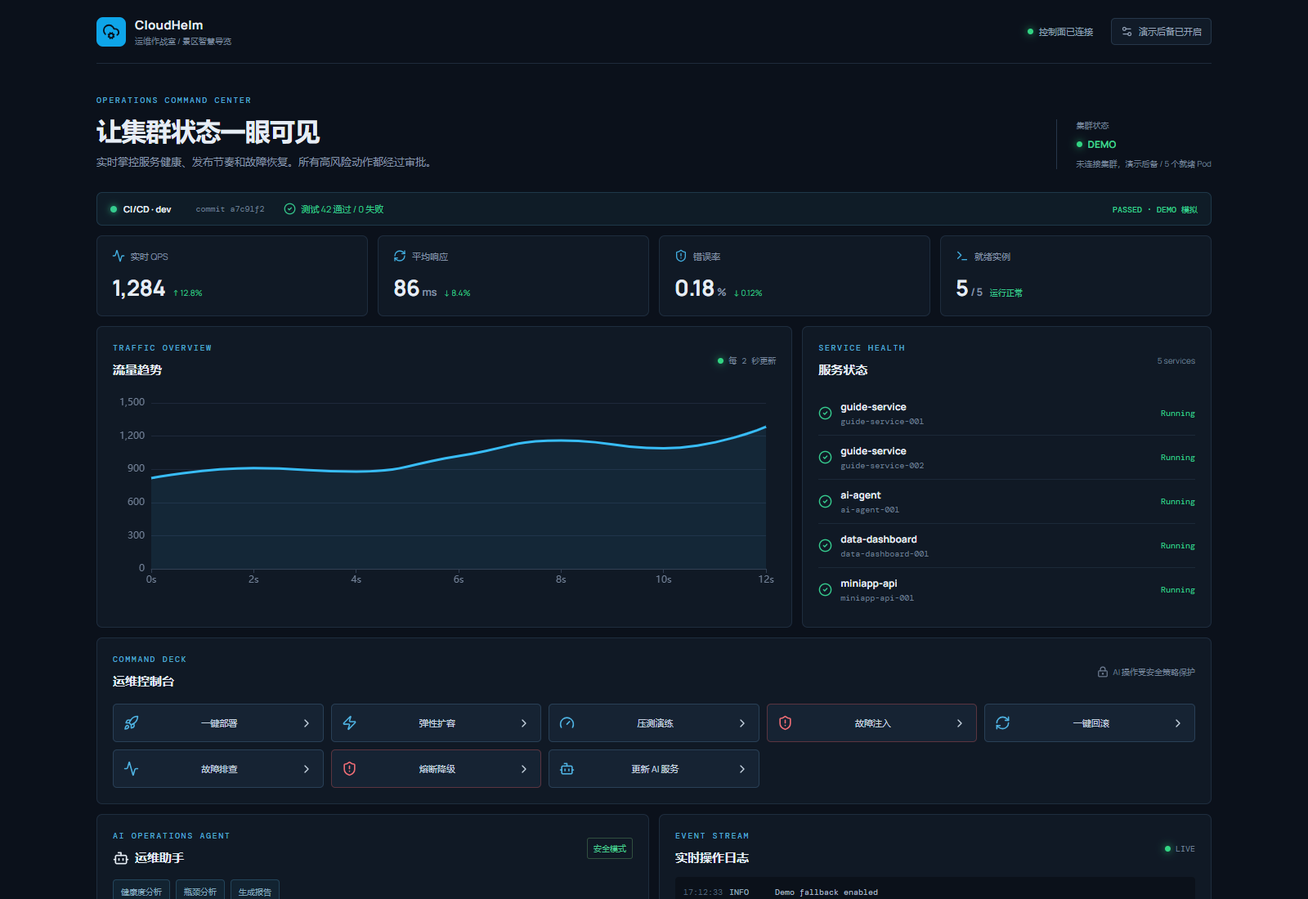
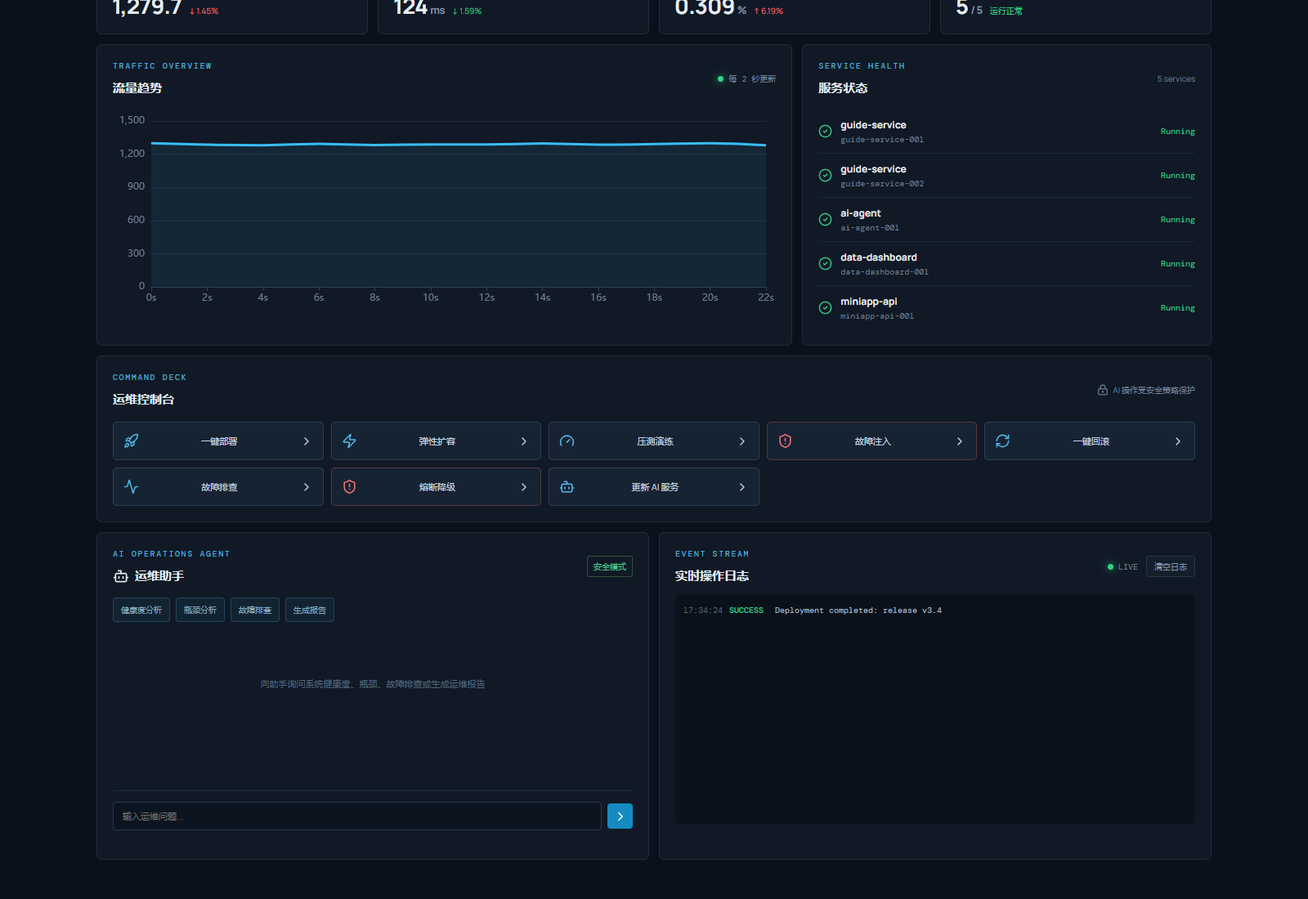
feat: 补上"清空日志"按钮，指标环比改为真实计算
缺口1: 需求 3.2.4 明确要求"提供清空日志按钮", 但前端 0 处实现。
- 新增 DELETE /api/logs 清空服务端缓冲区, 并记入审计(action_type=clear_logs)
- 日志面板标题栏增加"清空日志"按钮, 点击后本地清空并提示
- 实测: 点击后 0 条, 刷新页面仍为 0(证明服务端同步清除), 后续操作日志正常

缺口2: 指标卡片的环比箭头是写死的常量(↑12.8% / ↓8.4% / ↓0.12%)。
指标已改为动态后, 固定箭头属于把假数据当真实趋势展示。
- 改为与上一次采样对比实时计算, 无基线时显示 "—"
- 语义分级: QPS 上升为 good, 延迟/错误率下降为 good
- 实测: QPS ↓0.79%(bad) / 响应 ↓1.81%(good) / 错误率 ↑7.56%(bad)

验证: pytest 28 passed(新增清空日志用例) / npm run build 通过

diff --git a/frontend/src/App.vue b/frontend/src/App.vue
@@ -15,13 +15,43 @@ const api = async (path, options = {}) => { const response = await fetch(path, {
 let lastMode = null
 const metrics = ref({ qps: 0, latency_ms: 0, error_rate: 0, ready_pods: 0, total_pods: 0, traffic: [] })
 const health = ref({ k8s_connected: false }); const pipeline = ref(null)
+const deltas = ref({ qps: null, latency_ms: null, error_rate: null })
 const pods = ref([]); const logs = ref([]); const messages = ref([]); const question = ref(''); const busy = ref(''); const demoFallback = ref(true); const chart = ref(null); let chartInstance; let refreshTimer; let logSocket; let reconnectTimer
 const modeLabel = computed(() => {
   if (demoFallback.value) return '演示后备已开启'
   return health.value.k8s_connected ? '真实集群模式' : '后备已关闭 · 未连接集群'
 })
 const actionButtons = [{ key: 'deploy', label: '一键部署', icon: Rocket }, { key: 'scale', label: '弹性扩容', icon: Zap }, { key: 'load', label: '压测演练', icon: Gauge }, { key: 'chaos', label: '故障注入', icon: ShieldAlert, danger: true }, { key: 'rollback', label: '一键回滚', icon: RefreshCw }, { key: 'diagnostics', label: '故障排查', icon: Activity }, { key: 'circuit', label: '熔断降级', icon: ShieldAlert, danger: true }, { key: 'ai', label: '更新 AI 服务', icon: Bot }]
-async function refresh() { try { const [h, m, p, l, s, ci] = await Promise.all([api('/api/health'), api('/api/metrics'), api('/api/pods'), api('/api/logs'), api('/api/settings'), api('/api/pipeline')]); health.value = h; pipeline.value = ci; metrics.value = m; pods.value = p.items; logs.value = l.items; demoFallback.value = s.demo_fallback; await nextTick(); renderChart(m.traffic) } catch (error) { ElMessage.error(error.message) } }
+function computeDeltas(prev, next) {
+  const out = {}
+  for (const key of ['qps', 'latency_ms', 'error_rate']) {
+    const a = prev?.[key], b = next?.[key]
+    out[key] = typeof a === 'number' && typeof b === 'number' && a !== 0 ? ((b - a) / a) * 100 : null
+  }
+  return out
+}
+// Trend arrows are derived from the previous poll instead of being hard-coded,
+// so they never state a change that did not happen.
+const trends = computed(() => {
+  const build = (key, upIsGood) => {
+    const d = deltas.value[key]
+    if (d === null || d === undefined) return { text: '—', cls: 'flat' }
+    return { text: `${d >= 0 ? '↑' : '↓'} ${Math.abs(d).toFixed(2)}%`, cls: (upIsGood ? d >= 0 : d <= 0) ? 'good' : 'bad' }
+  }
+  return { qps: build('qps', true), latency: build('latency_ms', false), error: build('error_rate', false) }
+})
+
+async function clearLogs() {
+  try {
+    await api('/api/logs', { method: 'DELETE' })
+    logs.value = []
+    ElMessage.success('日志已清空')
+  } catch (error) {
+    ElMessage.error(error.message)
+  }
+}
+
+async function refresh() { try { const [h, m, p, l, s, ci] = await Promise.all([api('/api/health'), api('/api/metrics'), api('/api/pods'), api('/api/logs'), api('/api/settings'), api('/api/pipeline')]); health.value = h; pipeline.value = ci; deltas.value = computeDeltas(metrics.value, m); metrics.value = m; pods.value = p.items; logs.value = l.items; demoFallback.value = s.demo_fallback; await nextTick(); renderChart(m.traffic) } catch (error) { ElMessage.error(error.message) } }
 function renderChart(values) { if (!chart.value) return; chartInstance ||= echarts.init(chart.value); chartInstance.setOption({ animationDuration: 500, grid: { left: 8, right: 12, top: 18, bottom: 4, containLabel: true }, xAxis: { type: 'category', boundaryGap: false, data: values.map((_, i) => `${i * 2}s`), axisLine: { lineStyle: { color: '#334155' } }, axisLabel: { color: '#718096' } }, yAxis: { type: 'value', splitLine: { lineStyle: { color: '#1e293b' } }, axisLabel: { color: '#718096' } }, series: [{ data: values, type: 'line', smooth: true, symbol: 'none', lineStyle: { color: '#38bdf8', width: 3 }, areaStyle: { color: 'rgba(56,189,248,.12)' } }] }) }
 async function run(key) { if (busy.value) return; busy.value = key; lastMode = null; try { if (key === 'scale') { const { value } = await ElMessageBox.prompt('输入目标副本数（1-20）', '弹性扩容', { inputValue: '3', inputPattern: /^([1-9]|1[0-9]|20)$/, inputErrorMessage: '请输入 1-20' }); const result = await api('/api/scale', { method: 'POST', body: JSON.stringify({ deployment: 'guide-service', replicas: Number(value) }) }); await approve(result.action_id) } else if (key === 'chaos') { const pod = pods.value.find(p => p.deployment === 'guide-service'); if (!pod) throw new Error('没有可注入的导览服务 Pod'); await ElMessageBox.confirm(`将删除 ${pod.name} 并触发自愈，是否继续？`, '高风险操作确认', { type: 'warning', confirmButtonText: '确认注入', cancelButtonText: '取消' }); const result = await api('/api/chaos/kill', { method: 'POST', body: JSON.stringify({ pod_name: pod.name }) }); await approve(result.action_id) } else if (key === 'load') await api('/api/load-test', { method: 'POST' }); else if (key === 'rollback') await api('/api/rollback', { method: 'POST' }); else if (key === 'diagnostics') await api('/api/diagnostics'); else if (key === 'circuit') { await api('/api/circuit-breaker', { method: 'POST' }); setTimeout(() => api('/api/circuit-breaker/recover', { method: 'POST' }), 3500) } else if (key === 'ai') { const result = await api('/api/ai/update', { method: 'POST', body: JSON.stringify({ deployment: 'ai-agent', image: 'cloudhelm/ai-agent:demo' }) }); await approve(result.action_id) } else await api('/api/deploy', { method: 'POST' }); ElMessage.success(lastMode === 'live' ? '真实执行完成' : '演示执行完成（未变更真实集群）'); await refresh() } catch (error) { if (error !== 'cancel' && error?.message !== 'cancel') ElMessage.error(error.message) } finally { busy.value = '' } }
 async function approve(actionId) { const confirmed = await ElMessageBox.confirm('安全策略要求对该动作进行最终确认。', '审批高风险动作', { type: 'warning', confirmButtonText: '批准执行', cancelButtonText: '拒绝' }).then(() => true).catch(() => false); await api('/api/agent/approve', { method: 'POST', body: JSON.stringify({ action_id: actionId, approved: confirmed }) }); await refresh() }
@@ -37,9 +67,9 @@ onUnmounted(() => { clearInterval(refreshTimer); clearTimeout(reconnectTimer); l
     <header class="topbar"><div class="brand"><div class="brand-mark"><CloudCog :size="22" /></div><div><strong>CloudHelm</strong><span>运维作战室 / 景区智慧导览</span></div></div><div class="top-actions"><span class="connection"><i></i> 控制面已连接</span><button class="mode-toggle" @click="toggleFallback"><Settings2 :size="15" /> {{ modeLabel }}</button></div></header>
     <section class="hero"><div><p class="eyebrow">OPERATIONS COMMAND CENTER</p><h1>让集群状态一眼可见</h1><p class="subhead">实时掌控服务健康、发布节奏和故障恢复。所有高风险动作都经过审批。</p></div><div class="hero-status"><span>集群状态</span><b><i></i> {{ health.k8s_connected ? 'LIVE' : 'DEMO' }}</b><small>{{ health.k8s_connected ? 'k3s 实时集群' : '未连接集群，演示后备' }} / {{ metrics.ready_pods }} 个就绪 Pod</small></div></section>
     <section v-if="pipeline" class="pipeline-strip"><div><span class="pipeline-dot"></span><strong>CI/CD · {{ pipeline.branch }}</strong><small>commit {{ pipeline.commit }}</small></div><div class="pipeline-tests"><CheckCircle2 :size="15" /> 测试 {{ pipeline.tests.passed }} 通过 / {{ pipeline.tests.failed }} 失败</div><span class="pipeline-state">{{ pipeline.status.toUpperCase() }} · {{ pipeline.mode.toUpperCase() }} 模拟</span></section>
-    <section class="metrics-grid"><article class="metric-card"><div class="metric-label"><Activity :size="16" />实时 QPS</div><strong>{{ metrics.qps.toLocaleString() }}</strong><span class="trend up">↑ 12.8%</span></article><article class="metric-card"><div class="metric-label"><RefreshCw :size="16" />平均响应</div><strong>{{ metrics.latency_ms }}<em>ms</em></strong><span class="trend up">↓ 8.4%</span></article><article class="metric-card"><div class="metric-label"><ShieldAlert :size="16" />错误率</div><strong>{{ metrics.error_rate }}<em>%</em></strong><span class="trend good">↓ 0.12%</span></article><article class="metric-card"><div class="metric-label"><Terminal :size="16" />就绪实例</div><strong>{{ metrics.ready_pods }}<em>/ {{ metrics.total_pods }}</em></strong><span class="trend good">运行正常</span></article></section>
+    <section class="metrics-grid"><article class="metric-card"><div class="metric-label"><Activity :size="16" />实时 QPS</div><strong>{{ metrics.qps.toLocaleString() }}</strong><span class="trend" :class="trends.qps.cls">{{ trends.qps.text }}</span></article><article class="metric-card"><div class="metric-label"><RefreshCw :size="16" />平均响应</div><strong>{{ metrics.latency_ms }}<em>ms</em></strong><span class="trend" :class="trends.latency.cls">{{ trends.latency.text }}</span></article><article class="metric-card"><div class="metric-label"><ShieldAlert :size="16" />错误率</div><strong>{{ metrics.error_rate }}<em>%</em></strong><span class="trend" :class="trends.error.cls">{{ trends.error.text }}</span></article><article class="metric-card"><div class="metric-label"><Terminal :size="16" />就绪实例</div><strong>{{ metrics.ready_pods }}<em>/ {{ metrics.total_pods }}</em></strong><span class="trend good">运行正常</span></article></section>
     <section class="main-grid"><div class="panel chart-panel"><div class="panel-heading"><div><p class="eyebrow">TRAFFIC OVERVIEW</p><h2>流量趋势</h2></div><span class="live-pill"><i></i> 每 2 秒更新</span></div><div ref="chart" class="chart"></div></div><div class="panel pods-panel"><div class="panel-heading"><div><p class="eyebrow">SERVICE HEALTH</p><h2>服务状态</h2></div><span class="count">{{ pods.length }} services</span></div><div class="pod-list"><div v-for="pod in pods" :key="pod.name" class="pod-row" :class="{ down: !pod.ready }"><div class="pod-icon"><component :is="pod.ready ? CheckCircle2 : AlertTriangle" :size="17" /></div><div class="pod-info"><strong>{{ pod.deployment }}</strong><span>{{ pod.name }}</span></div><span class="pod-status">{{ pod.status }}</span></div></div></div></section>
     <section class="panel controls"><div class="panel-heading"><div><p class="eyebrow">COMMAND DECK</p><h2>运维控制台</h2></div><span class="security-note"><LockKeyhole :size="14" /> AI 操作受安全策略保护</span></div><div class="action-grid"><button v-for="item in actionButtons" :key="item.key" :class="['action-btn', { danger: item.danger }]" :disabled="!!busy" @click="run(item.key)"><component :is="item.icon" :size="19" /><span>{{ busy === item.key ? '执行中...' : item.label }}</span><ChevronRight :size="16" /></button></div></section>
-    <section class="lower-grid"><div class="panel assistant"><div class="panel-heading"><div><p class="eyebrow">AI OPERATIONS AGENT</p><h2><Bot :size="20" /> 运维助手</h2></div><span class="agent-badge">安全模式</span></div><div class="quick-asks"><button @click="ask('请分析当前系统健康度')">健康度分析</button><button @click="ask('当前系统有什么瓶颈？')">瓶颈分析</button><button @click="ask('帮我排查故障')">故障排查</button><button @click="ask('生成一份运维报告')">生成报告</button></div><div class="messages"><div v-for="(message, index) in messages" :key="index" :class="['message', message.role]"><span class="message-avatar">{{ message.role === 'ai' ? 'AI' : '我' }}</span><div class="bubble" v-html="renderMarkdown(message.text)"></div><button v-if="message.action" class="suggestion" @click="approve(message.action.action_id)">{{ message.action.label }} · 需要确认</button></div><div v-if="!messages.length" class="empty-state">向助手询问系统健康度、瓶颈、故障排查或生成运维报告</div></div><form class="chat-form" @submit.prevent="ask()"><input v-model="question" placeholder="输入运维问题..." /><button aria-label="发送"><ChevronRight :size="18" /></button></form></div><div class="panel logs"><div class="panel-heading"><div><p class="eyebrow">EVENT STREAM</p><h2>实时操作日志</h2></div><span class="live-pill"><i></i> LIVE</span></div><div class="log-list"><div v-for="log in logs" :key="log.id" class="log-line"><time>{{ new Date(log.timestamp).toLocaleTimeString('zh-CN', { hour12: false }) }}</time><b :class="log.level.toLowerCase()">{{ log.level }}</b><span>{{ log.message }}</span></div></div></div></section>
+    <section class="lower-grid"><div class="panel assistant"><div class="panel-heading"><div><p class="eyebrow">AI OPERATIONS AGENT</p><h2><Bot :size="20" /> 运维助手</h2></div><span class="agent-badge">安全模式</span></div><div class="quick-asks"><button @click="ask('请分析当前系统健康度')">健康度分析</button><button @click="ask('当前系统有什么瓶颈？')">瓶颈分析</button><button @click="ask('帮我排查故障')">故障排查</button><button @click="ask('生成一份运维报告')">生成报告</button></div><div class="messages"><div v-for="(message, index) in messages" :key="index" :class="['message', message.role]"><span class="message-avatar">{{ message.role === 'ai' ? 'AI' : '我' }}</span><div class="bubble" v-html="renderMarkdown(message.text)"></div><button v-if="message.action" class="suggestion" @click="approve(message.action.action_id)">{{ message.action.label }} · 需要确认</button></div><div v-if="!messages.length" class="empty-state">向助手询问系统健康度、瓶颈、故障排查或生成运维报告</div></div><form class="chat-form" @submit.prevent="ask()"><input v-model="question" placeholder="输入运维问题..." /><button aria-label="发送"><ChevronRight :size="18" /></button></form></div><div class="panel logs"><div class="panel-heading"><div><p class="eyebrow">EVENT STREAM</p><h2>实时操作日志</h2></div><div class="log-actions"><span class="live-pill"><i></i> LIVE</span><button class="clear-logs" @click="clearLogs">清空日志</button></div></div><div class="log-list"><div v-for="log in logs" :key="log.id" class="log-line"><time>{{ new Date(log.timestamp).toLocaleTimeString('zh-CN', { hour12: false }) }}</time><b :class="log.level.toLowerCase()">{{ log.level }}</b><span>{{ log.message }}</span></div></div></div></section>
   </main>
 </template>

diff --git a/frontend/src/style.css b/frontend/src/style.css
@@ -1,5 +1,5 @@
 @import url('https://fonts.googleapis.com/css2?family=DM+Mono:wght@400;500&family=Manrope:wght@400;500;600;700;800&display=swap');
-:root{font-family:Manrope,Arial,sans-serif;color:#e6edf5;background:#0b111b;font-synthesis:none}*{box-sizing:border-box}body{margin:0;min-width:320px;background:#0b111b}button,input{font:inherit}.shell{max-width:1440px;margin:auto;padding:0 38px 48px}.topbar{height:78px;border-bottom:1px solid #1e2b3b;display:flex;align-items:center;justify-content:space-between}.brand,.top-actions,.connection,.mode-toggle,.metric-label,.panel-heading,.security-note,.action-btn,.quick-asks,.chat-form{display:flex;align-items:center}.brand{gap:11px}.brand-mark{width:36px;height:36px;background:#0ea5e9;color:#07131f;border-radius:8px;display:grid;place-items:center}.brand strong{display:block;font-size:15px;letter-spacing:.3px}.brand span{display:block;color:#718096;font-size:10px;margin-top:2px}.top-actions{gap:22px}.connection{gap:7px;color:#8fa3b8;font-size:11px}.connection i,.live-pill i,.hero-status b i{width:7px;height:7px;border-radius:50%;background:#32d583;box-shadow:0 0 10px #32d583;display:inline-block}.mode-toggle{gap:7px;color:#94a3b8;background:#111b28;border:1px solid #26374a;border-radius:5px;padding:8px 11px;font-size:11px;cursor:pointer}.hero{display:flex;justify-content:space-between;align-items:end;padding:38px 0 28px}.eyebrow{font:500 10px 'DM Mono',monospace;letter-spacing:1.6px;color:#4fa8d1;margin:0 0 10px}.hero h1{font-size:31px;letter-spacing:-.7px;margin:0 0 8px}.subhead{color:#8494a8;font-size:13px;margin:0}.hero-status{border-left:1px solid #26374a;padding-left:24px;min-width:180px}.hero-status span,.hero-status small{display:block;color:#718096;font-size:10px}.hero-status b{display:flex;align-items:center;gap:7px;color:#42d392;font-size:12px;margin:8px 0}.pipeline-strip{display:flex;align-items:center;gap:24px;margin:0 0 12px;padding:12px 16px;background:#0f1c27;border:1px solid #1e3849;border-radius:7px;font-size:11px}.pipeline-strip>div:first-child{display:flex;align-items:center;gap:8px}.pipeline-strip small{display:block;color:#718096;font:10px 'DM Mono',monospace;margin-left:22px}.pipeline-dot{width:8px;height:8px;background:#35cb8e;border-radius:50%;box-shadow:0 0 9px #35cb8e}.pipeline-tests{display:flex;align-items:center;gap:6px;color:#35cb8e}.pipeline-state{margin-left:auto;color:#35cb8e;font:500 10px 'DM Mono',monospace}.metrics-grid{display:grid;grid-template-columns:repeat(4,1fr);gap:12px}.metric-card,.panel{background:#101925;border:1px solid #1e2d3e;border-radius:7px}.metric-card{padding:16px 18px}.metric-label{gap:7px;color:#8494a8;font-size:11px}.metric-label svg{color:#42aee0}.metric-card strong{font-size:27px;display:inline-block;margin-top:12px;letter-spacing:-.5px}.metric-card em{font-size:13px;color:#8292a6;font-style:normal;margin-left:3px}.trend{font-size:10px;margin-left:9px}.up,.good{color:#37ca8e}.main-grid{display:grid;grid-template-columns:1.7fr 1fr;gap:12px;margin-top:12px}.panel{padding:19px}.panel-heading{justify-content:space-between;gap:10px}.panel-heading h2{font-size:15px;margin:0;display:flex;align-items:center;gap:7px}.count,.security-note,.live-pill,.agent-badge{font-size:10px;color:#718096}.live-pill{display:flex;align-items:center;gap:6px;font-family:'DM Mono',monospace}.chart{height:245px;margin-top:12px}.pod-list{margin-top:16px}.pod-row{display:flex;align-items:center;gap:10px;padding:10px 0;border-bottom:1px solid #1b2938}.pod-row:last-child{border:0}.pod-icon{color:#35cb8e}.pod-info{flex:1}.pod-info strong,.pod-info span{display:block}.pod-info strong{font-size:12px}.pod-info span{color:#718096;font:10px 'DM Mono',monospace;margin-top:3px}.pod-status{font:10px 'DM Mono',monospace;color:#35cb8e}
+:root{font-family:Manrope,Arial,sans-serif;color:#e6edf5;background:#0b111b;font-synthesis:none}*{box-sizing:border-box}body{margin:0;min-width:320px;background:#0b111b}button,input{font:inherit}.shell{max-width:1440px;margin:auto;padding:0 38px 48px}.topbar{height:78px;border-bottom:1px solid #1e2b3b;display:flex;align-items:center;justify-content:space-between}.brand,.top-actions,.connection,.mode-toggle,.metric-label,.panel-heading,.security-note,.action-btn,.quick-asks,.chat-form{display:flex;align-items:center}.brand{gap:11px}.brand-mark{width:36px;height:36px;background:#0ea5e9;color:#07131f;border-radius:8px;display:grid;place-items:center}.brand strong{display:block;font-size:15px;letter-spacing:.3px}.brand span{display:block;color:#718096;font-size:10px;margin-top:2px}.top-actions{gap:22px}.connection{gap:7px;color:#8fa3b8;font-size:11px}.connection i,.live-pill i,.hero-status b i{width:7px;height:7px;border-radius:50%;background:#32d583;box-shadow:0 0 10px #32d583;display:inline-block}.mode-toggle{gap:7px;color:#94a3b8;background:#111b28;border:1px solid #26374a;border-radius:5px;padding:8px 11px;font-size:11px;cursor:pointer}.hero{display:flex;justify-content:space-between;align-items:end;padding:38px 0 28px}.eyebrow{font:500 10px 'DM Mono',monospace;letter-spacing:1.6px;color:#4fa8d1;margin:0 0 10px}.hero h1{font-size:31px;letter-spacing:-.7px;margin:0 0 8px}.subhead{color:#8494a8;font-size:13px;margin:0}.hero-status{border-left:1px solid #26374a;padding-left:24px;min-width:180px}.hero-status span,.hero-status small{display:block;color:#718096;font-size:10px}.hero-status b{display:flex;align-items:center;gap:7px;color:#42d392;font-size:12px;margin:8px 0}.pipeline-strip{display:flex;align-items:center;gap:24px;margin:0 0 12px;padding:12px 16px;background:#0f1c27;border:1px solid #1e3849;border-radius:7px;font-size:11px}.pipeline-strip>div:first-child{display:flex;align-items:center;gap:8px}.pipeline-strip small{display:block;color:#718096;font:10px 'DM Mono',monospace;margin-left:22px}.pipeline-dot{width:8px;height:8px;background:#35cb8e;border-radius:50%;box-shadow:0 0 9px #35cb8e}.pipeline-tests{display:flex;align-items:center;gap:6px;color:#35cb8e}.pipeline-state{margin-left:auto;color:#35cb8e;font:500 10px 'DM Mono',monospace}.metrics-grid{display:grid;grid-template-columns:repeat(4,1fr);gap:12px}.metric-card,.panel{background:#101925;border:1px solid #1e2d3e;border-radius:7px}.metric-card{padding:16px 18px}.metric-label{gap:7px;color:#8494a8;font-size:11px}.metric-label svg{color:#42aee0}.metric-card strong{font-size:27px;display:inline-block;margin-top:12px;letter-spacing:-.5px}.metric-card em{font-size:13px;color:#8292a6;font-style:normal;margin-left:3px}.trend{font-size:10px;margin-left:9px}.up,.good{color:#37ca8e}.bad{color:#f26e76}.flat{color:#5a6b7d}.main-grid{display:grid;grid-template-columns:1.7fr 1fr;gap:12px;margin-top:12px}.panel{padding:19px}.panel-heading{justify-content:space-between;gap:10px}.panel-heading h2{font-size:15px;margin:0;display:flex;align-items:center;gap:7px}.count,.security-note,.live-pill,.agent-badge{font-size:10px;color:#718096}.log-actions{display:flex;align-items:center;gap:10px}.clear-logs{font-size:10px;color:#8494a8;background:#141f2c;border:1px solid #26374a;border-radius:4px;padding:5px 9px;cursor:pointer}.clear-logs:hover{color:#cfe0ee;border-color:#3d566e}.live-pill{display:flex;align-items:center;gap:6px;font-family:'DM Mono',monospace}.chart{height:245px;margin-top:12px}.pod-list{margin-top:16px}.pod-row{display:flex;align-items:center;gap:10px;padding:10px 0;border-bottom:1px solid #1b2938}.pod-row:last-child{border:0}.pod-icon{color:#35cb8e}.pod-info{flex:1}.pod-info strong,.pod-info span{display:block}.pod-info strong{font-size:12px}.pod-info span{color:#718096;font:10px 'DM Mono',monospace;margin-top:3px}.pod-status{font:10px 'DM Mono',monospace;color:#35cb8e}
 .pod-row.down .pod-icon,.pod-row.down .pod-status{color:#f26e76}
 .pod-row.down{animation:pod-alert 1.2s ease-in-out infinite}
 @keyframes pod-alert{0%,100%{background:transparent}50%{background:rgba(242,110,118,.09)}}.controls{margin-top:12px}.security-note{gap:5px}.action-grid{display:grid;grid-template-columns:repeat(5,1fr);gap:9px;margin-top:17px}.action-btn{justify-content:space-between;gap:7px;color:#c8d5e2;background:#162333;border:1px solid #294057;border-radius:5px;padding:13px 12px;cursor:pointer;font-size:11px;text-align:left}.action-btn svg:first-child{color:#4fb4e4}.action-btn:hover{border-color:#43a9d9;background:#1a3044}.action-btn.danger{border-color:#5b3540}.action-btn.danger svg:first-child{color:#f26e76}.action-btn:disabled{opacity:.6;cursor:wait}.lower-grid{display:grid;grid-template-columns:1fr 1fr;gap:12px;margin-top:12px}.assistant,.logs{min-height:350px}.quick-asks{gap:7px;margin:16px 0}.quick-asks button{font-size:10px;color:#84a9bf;background:#122331;border:1px solid #23455b;border-radius:4px;padding:7px 9px;cursor:pointer}.messages{height:190px;overflow:auto}.message{display:flex;gap:8px;margin:10px 0}.message.user{justify-content:flex-end}.message-avatar{font:10px 'DM Mono',monospace;color:#4fb4e4;padding-top:8px}.message.user .message-avatar{order:2;color:#c5a55d}.bubble{max-width:82%;font-size:11px;line-height:1.6;background:#172637;border-radius:5px;padding:9px 11px;color:#c4d3e1}.bubble .md-h{display:block;color:#e8f2fa;margin-bottom:4px}.bubble .md-li{display:block}.suggestion{display:block;margin-top:5px;color:#73c8ee;background:#102b3a;border:1px solid #2f6985;border-radius:4px;padding:5px 8px;font-size:10px;cursor:pointer}.message.user .bubble{background:#14384b}.empty-state{text-align:center;color:#53677d;font-size:11px;padding:52px 0}.chat-form{gap:7px;border-top:1px solid #1e2d3e;padding-top:13px}.chat-form input{flex:1;background:#0c141f;border:1px solid #26384b;color:#d7e4ee;border-radius:4px;padding:9px 11px;font-size:11px;outline:none}.chat-form button{width:31px;height:31px;border:0;border-radius:4px;background:#168bc1;color:white;display:grid;place-items:center;cursor:pointer}.agent-badge{border:1px solid #31503f;color:#48c990;padding:5px 7px;border-radius:3px}.log-list{height:280px;overflow:auto;margin-top:13px;background:#0b111a;border-radius:4px;padding:10px}.log-line{display:flex;gap:8px;font:10px 'DM Mono',monospace;line-height:1.8}.log-line time{color:#53677d}.log-line b{font-weight:500;width:48px}.log-line b.info{color:#91a7bb}.log-line b.success{color:#35cb8e}.log-line b.warn{color:#dfb85e}.log-line b.error{color:#f26e76}.log-line span{color:#aebdcb;white-space:nowrap;overflow:hidden;text-overflow:ellipsis}@media(max-height:820px){.shell{padding:0 26px 28px}.topbar{height:60px}.hero{padding:8px 0 8px}.hero h1{font-size:21px;margin:0 0 4px}.hero .eyebrow{margin-bottom:6px}.hero .subhead{font-size:11px}.hero-status b{margin:5px 0}.metrics-grid{gap:8px}.metric-card{padding:9px 12px}.metric-card strong{font-size:19px;margin-top:5px}.metric-label{font-size:10px}.panel{padding:12px}.chart{height:118px;margin-top:6px}.pod-list{margin-top:8px;max-height:168px;overflow:auto}.pod-row{padding:2px 0}.pod-row svg{width:14px;height:14px}.pod-info strong{font-size:11px}.pod-info span{font-size:9px;margin-top:1px}.controls{margin-top:8px}.action-grid{margin-top:9px;gap:7px}.action-btn{padding:9px 10px}.lower-grid{margin-top:8px}.assistant,.logs{min-height:0}.messages{height:140px}.log-list{height:190px}.main-grid{margin-top:8px}}@media(max-width:900px){.shell{padding:0 18px 32px}.main-grid,.lower-grid{grid-template-columns:1fr}.action-grid{grid-template-columns:repeat(3,1fr)}.hero h1{font-size:25px}}@media(max-width:600px){.pipeline-strip{align-items:flex-start;flex-wrap:wrap;gap:9px}.pipeline-state{margin-left:0}.topbar{height:auto;padding:16px 0;gap:12px;align-items:flex-start}.top-actions{flex-direction:column;align-items:flex-end;gap:8px}.connection{display:none}.hero{display:block;padding:28px 0 21px}.hero-status{border-left:0;border-top:1px solid #26374a;padding:13px 0 0;margin-top:20px}.metrics-grid{grid-template-columns:repeat(2,1fr)}.metric-card{padding:13px}.metric-card strong{font-size:22px}.action-grid{grid-template-columns:repeat(2,1fr)}.security-note{display:none}.action-btn{font-size:10px}.log-line{font-size:9px}}

diff --git a/backend/tests/test_api.py b/backend/tests/test_api.py
@@ -207,3 +207,14 @@ def test_deploy_and_rollback_are_audited():
     decisions = [(item['action_type'], item['decision']) for item in client.get('/api/audit').json()['items']]
     assert ('deploy', 'executed') in decisions
     assert ('rollback', 'executed') in decisions
+
+
+def test_clear_logs_empties_buffer_and_is_audited():
+    client.post('/api/load-test')
+    assert client.get('/api/logs').json()['items']
+    cleared = client.delete('/api/logs').json()
+    assert cleared['success'] is True
+    assert cleared['cleared'] > 0
+    assert client.get('/api/logs').json()['items'] == []
+    actions = [(item['action_type'], item['decision']) for item in client.get('/api/audit').json()['items']]
+    assert ('clear_logs', 'executed') in actions

diff --git a/backend/app/main.py b/backend/app/main.py
@@ -165,6 +165,15 @@ def get_logs():
     return {"items": list(store.logs)}
 
 
+@app.delete("/api/logs")
+def clear_logs(operator: str = "control-panel"):
+    """Clear the log buffer. Recorded in the audit trail (which is separate)."""
+    cleared = len(store.logs)
+    store.logs.clear()
+    audit_executed("clear_logs", f"log buffer ({cleared} entries)", operator)
+    return {"success": True, "cleared": cleared}
+
+
 @app.get("/api/audit")
 def get_audit():
     """Audit trail: who decided what, on which target, and when."""

diff --git a/docs/OPERATIONS.md b/docs/OPERATIONS.md
@@ -76,6 +76,8 @@ kubectl apply -f deploy/frontend-deployment.yaml
 | 关闭后备后操作 | 浏览器点击部署 | API 503 + UI 报错，**无伪造成功日志** |
 | 故障注入→自愈 | 浏览器实测（真实 5 秒延迟） | Pod 变红 `rgb(242,110,118)` → 5s 后变绿 `rgb(53,203,142)`，restarts +1 |
 | 投影仪分辨率 | 浏览器 resize 实测 1280×720 / 1366×768 / 1920×1080 / 1024×768 | 无横向溢出；5 个 Pod 与 8 个按钮均入首屏 |
+| 清空日志 | 浏览器点击后刷新页面 | 日志归零且**刷新后不再出现**（服务端同步清除），审计留痕 |
+| 指标环比箭头 | 浏览器读取 DOM | 由上一次采样实时计算（如 QPS ↓0.79% bad / 响应 ↓1.81% good），非写死 |
 
 未验证（受环境限制）：`docker compose up` 与真实 K8s 集群联调 —— 本机没有 Docker 与 kubeconfig。
 
